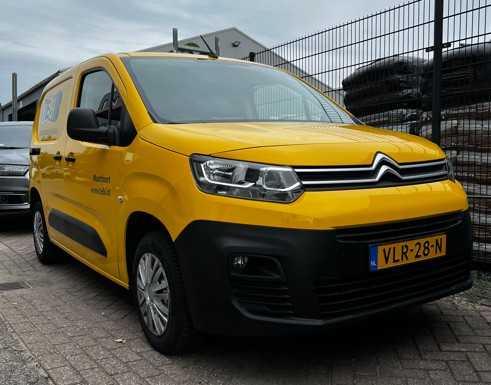
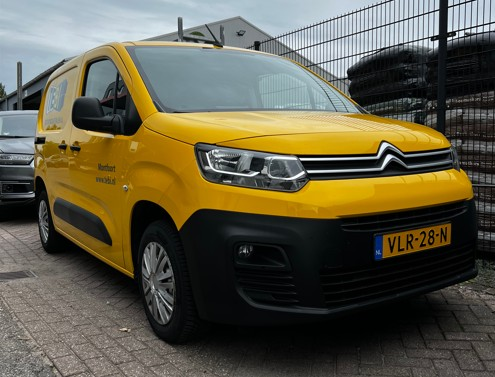
bug fix

diff --git a/src/lib/vehicles.js b/src/lib/vehicles.js
@@ -5,7 +5,7 @@
 export const VEHICLES = [
   { id: 'berlingo_geel_oud', merk: 'Citroën', model: 'Berlingo', variant: 'Geel oud', kenteken: 'TF-098-N', kleur: '#e0a100', foto: null },
   { id: 'berlingo_zilver', merk: 'Citroën', model: 'Berlingo', variant: 'Zilver', kenteken: 'VKZ-24-K', kleur: '#64748b', foto: '/vehicles/Citroen_berlingo_zilver.jpg' },
-  { id: 'berlingo_henk', merk: 'Citroën', model: 'Berlingo', variant: 'Henk', kenteken: 'VLR-28-N', kleur: '#a855f7', foto: '/vehicle/Citroen_berlingo_henk.jpg' },
+  { id: 'berlingo_henk', merk: 'Citroën', model: 'Berlingo', variant: 'Henk', kenteken: 'VLR-28-N', kleur: '#a855f7', foto: '/vehicles/Citroen_berlingo_henk.jpg' },
   { id: 'mercedes_eqv', merk: 'Mercedes', model: 'EQV', variant: 'Elektrische bus', kenteken: 'S-464-GP', kleur: '#1f6feb', foto: '/vehicles/Mercedes_EQV_300.jpg' },
 ]
 
